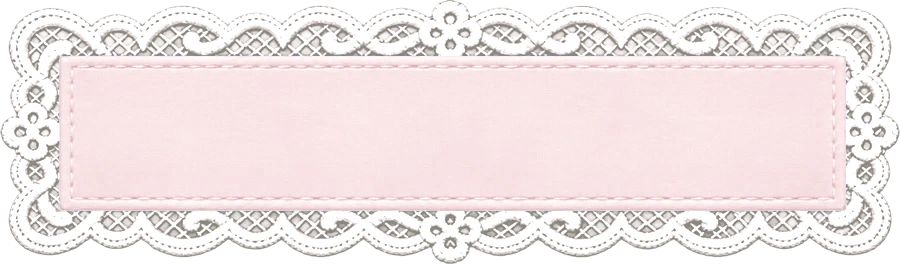
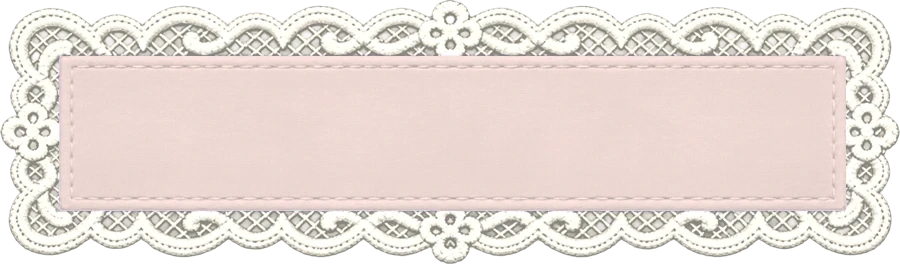
Web: the book's menu spread is back over the opening, no flash on close; smaller Start; dusty pink lace; leaf-green 용어집 (Kim)
- Start raises the book onto its first spread (도안 만들기, 이어서 뜨기 ...) floating over the opening;
  "← 메뉴" in the wizard turns back to it, closing sinks back to the opening.
- Closing no longer shows the book again for a moment: the sunk state lasts until the page it returns to
  is there, and the old desk stays hidden on wide screens.
- The opening's Start sentence is about 70% of its size.
- All pink lace labels use Kim's dusty pink (lace_btn_pink.webp).
- App: the 뜨개 용어집 tile in the medallion's leaf green (patch_leaf.webp).

diff --git a/components/Book/BookProvider.tsx b/components/Book/BookProvider.tsx
@@ -10,7 +10,7 @@
 // `instant` is true when the new state must appear without motion: first load, refresh, typed address,
 // or arriving from a page that has no book.
 import { usePathname, useRouter, useSearchParams } from "next/navigation";
-import { createContext, Suspense, useCallback, useContext, useEffect, useMemo, useState, type ReactNode } from "react";
+import { createContext, Suspense, useCallback, useContext, useEffect, useMemo, useRef, useState, type ReactNode } from "react";
 import { useApp } from "@/components/AppProvider";
 import { freshDraft } from "@/lib/items";
 import { store } from "@/lib/store";
@@ -87,6 +87,8 @@ export function BookProvider({ children }: { children: ReactNode }) {
   const [closing, setClosing] = useState(false);
   // the book opened over another page ("새 도안"), and the page to come back to from the wizard
   const [overlay, setOverlay] = useState(false);
+  const menuNext = useRef(false);
+  const [sinking, setSinking] = useState(false);
   const [origin, setOrigin] = useState<string | null>(null);
 
   // address -> state, during render (not in an effect) so the book sees the new view and `instant`
@@ -97,12 +99,16 @@ export function BookProvider({ children }: { children: ReactNode }) {
     const phone = isPhone();
     const bookPage = (p: string | null) => p === "/" || p === "/new" || (phone && !!bookPageOf(p));
     setSeenPath(path);
-    // wide screens (Kim): there is no menu spread any more - / is the opening, the book only rises to the wizard
+    // wide screens (Kim): / is the opening; the book with its menu spread floats over it (overlay), so the menu is
+    // never the old desk. Phones keep their own menu on /.
     if (path === "/") setHomeOpen(phone && (seenPath === "/new" || !!bookPageOf(seenPath) || seenPath === "/mine" || seenPath === "/pattern" || seenPath === "/track") && !closing);
     if (closing) setClosing(false);
     setInstant(!bookPage(seenPath) && !overlay);
-    if (overlay) setOverlay(false); // going anywhere (the wizard, 내 작품) ends the overlay
-    if (origin && path !== "/new") setOrigin(null); // back on a page (the origin or any other): forgotten
+    // wide screens: "← 메뉴" in a wizard raised over the opening turns back to the floating menu spread
+    const toMenu = menuNext.current && path === "/"; menuNext.current = false;
+    if (overlay !== toMenu) setOverlay(toMenu); // going anywhere (the wizard, 내 작품) ends the overlay
+    if (origin && path !== "/new" && !toMenu) setOrigin(null); // back on a page (the origin or any other): forgotten
+    if (sinking) setSinking(false); // the sunk book stays down until the screen it goes back to is there
   }
   // a step change on the same page (next / previous / Back / Forward) always turns the page, also after
   // the wizard was opened by a typed address or a refresh (which only skips the motion of that first view)
@@ -129,7 +135,7 @@ export function BookProvider({ children }: { children: ReactNode }) {
     router.replace(`/new?${sp}`, { scroll: false });
   }, [path, urlStep, router]);
 
-  const view: BookView = path === "/" ? (homeOpen ? "home" : "closed") : path === "/new" ? "wizard" : overlay ? "home" : "hidden";
+  const view: BookView = path === "/" ? (homeOpen || overlay ? "home" : "closed") : path === "/new" ? "wizard" : overlay ? "home" : "hidden";
   const step: WizStep = urlStep ?? 1;
 
   // Wide screens (Kim): the book is called from two places only - the opening's Start and the nav's 새 도안 -
@@ -140,15 +146,20 @@ export function BookProvider({ children }: { children: ReactNode }) {
     if (path === "/new") { const sp = new URLSearchParams(location.search); sp.delete("edit"); sp.set("step", "1"); router.push(`/new?${sp}`, { scroll: false }); return; }
     setOrigin(path + location.search); router.push("/new?step=1", { scroll: false });
   }, [path, router]);
-  const open = useCallback(() => { if (!isPhone()) { raise(); return; } setInstant(false); setHomeOpen(true); }, [raise]);
+  // wide screens, on the opening: the book rises from the bottom onto its first spread (the menu: 도안 만들기,
+  // 이어서 뜨기 ...), floating over the opening, which draws back under it (Kim)
+  const rise = useCallback(() => {
+    if (path !== "/") { raise(); return; }
+    setInstant(false); setOrigin("/"); setOverlay(true);
+  }, [path, raise]);
+  const open = useCallback(() => { if (!isPhone()) { rise(); return; } setInstant(false); setHomeOpen(true); }, [rise]);
   // close: the same everywhere in the book. In the wizard it goes home with the book closed
   const floating = overlay || (path === "/new" && !!origin);
-  const [sinking, setSinking] = useState(false);
   const finishClose = useCallback(() => {
     setInstant(false); setHomeOpen(false);
-    if (overlay) { setOverlay(false); return; } // opened over a page: just put the book away
+    if (overlay) { setOverlay(false); if (!isPhone()) setOrigin(null); return; } // opened over a page: just put the book away
     // the wizard entered from a page (새 도안 -> 도안 만들기, 도안 고치기) goes back to that page
-    if (path === "/new" && origin) { const o = origin; setOrigin(null); router.push(o, { scroll: false }); return; }
+    if (path === "/new" && origin) { const o = origin; if (isPhone()) setOrigin(null); router.push(o, { scroll: false }); return; } // wide screens: the path change forgets it, so the book stays floating (sunk) until that page is there
     if (path === "/new") { setClosing(true); router.push("/", { scroll: false }); }
     // phones: 도안집, 도안 and 따라 뜨기 are pages of the open book too; closing it goes to the desk, closed
     else if (isPhone() && bookPageOf(path)) { setClosing(true); router.push("/", { scroll: false }); }
@@ -158,16 +169,19 @@ export function BookProvider({ children }: { children: ReactNode }) {
     if (sinking) return;
     if (!floating) { finishClose(); return; }
     setSinking(true);
-    setTimeout(() => { finishClose(); setSinking(false); }, matchMedia("(prefers-reduced-motion: reduce)").matches ? 0 : 700);
-  }, [floating, sinking, finishClose]);
+    // going back to another address: .is-sinking stays until that screen is there (the path change ends it);
+    // ending it earlier showed the book once more, open, for a frame before it vanished
+    const stays = overlay || isPhone(); // phones: as before
+    setTimeout(() => { finishClose(); if (stays) setSinking(false); }, matchMedia("(prefers-reduced-motion: reduce)").matches ? 0 : 700);
+  }, [floating, sinking, finishClose, overlay]);
   const editHere = useCallback((id: string) => {
     setInstant(false); setOrigin(path + location.search); router.push(`/new?edit=${encodeURIComponent(id)}`, { scroll: false });
   }, [path, router]);
   const openHere = useCallback(() => {
-    if (!isPhone()) { raise(); return; }
+    if (!isPhone()) { rise(); return; }
     if (path === "/" || path === "/new") { setInstant(false); setHomeOpen(true); if (path === "/new") router.push("/", { scroll: false }); return; }
     setInstant(false); setOrigin(path + location.search); setOverlay(true);
-  }, [path, router, raise]);
+  }, [path, router, rise]);
   const doHome = useCallback(() => { setInstant(false); router.push("/", { scroll: false }); }, [router]);
 
   // Leaving a new pattern half made (a name typed, or past step 1) asks first: keep it for
@@ -195,8 +209,15 @@ export function BookProvider({ children }: { children: ReactNode }) {
     const sp = new URLSearchParams(location.search); sp.set("step", String(s));
     router.push(`/new?${sp}`, { scroll: false });
   }, [router]);
-  // wide screens: no menu to go back to - "← 메뉴" puts the book away (it sinks to the screen it rose over)
-  const toHome = useCallback(() => { if (!isPhone()) { close(); return; } if (asks()) setLeaving("home"); else doHome(); }, [asks, doHome, close]);
+  // wide screens: "← 메뉴" turns back to the menu spread when the wizard was raised from the opening; raised over
+  // another page (새 도안), there is no menu there - the book is put away (it sinks to that page)
+  const toHome = useCallback(() => {
+    if (!isPhone()) {
+      if (origin?.split("?")[0] !== "/") { close(); return; }
+      menuNext.current = true;
+    }
+    if (asks()) setLeaving("home"); else doHome();
+  }, [asks, doHome, close, origin]);
   const toDesk = useCallback(() => { setClosing(true); router.push("/", { scroll: false }); }, [router]);
   const leaveTo = useCallback((to: string) => { if (asks()) setLeaving({ path: to }); else { setInstant(false); router.push(to, { scroll: false }); } }, [asks, router]);
 
@@ -210,7 +231,8 @@ export function BookProvider({ children }: { children: ReactNode }) {
     return () => document.removeEventListener("keydown", onKey);
   }, [view, close, leaving]);
 
-  const fromOpening = path === "/new" && origin?.split("?")[0] === "/"; // the path only (a query such as ?debug stays)
+  // the book floats over the opening: its menu on /, or the wizard raised from there (origin: the path only)
+  const fromOpening = (path === "/" && overlay) || (path === "/new" && origin?.split("?")[0] === "/");
   const value = useMemo<BookCtx>(() => ({ view, step, instant, mode, setMode, desk, open, close, startWizard, goStep, toHome, openHere, overlay, floating, sinking, editHere, leaveTo, toDesk, sinkAway: doClose, fromOpening }),
     [view, step, instant, mode, desk, open, close, startWizard, goStep, toHome, openHere, overlay, floating, sinking, editHere, leaveTo, toDesk, doClose, fromOpening]);
   return (

diff --git a/components/opening/webOpeningScene.ts b/components/opening/webOpeningScene.ts
@@ -44,7 +44,7 @@ export function makeScene(cv: HTMLCanvasElement, img: WebOpeningImages) {
   function layout() {
     const portrait = VH / VW > 1.12; LW = portrait ? 1080 : 1920; LH = portrait ? 1920 : 1080; SC = Math.min(VW / LW, VH / LH); OX = (VW - LW * SC) / 2; OY = (VH - LH * SC) / 2; PX = SC * DPR;
     const mr = img.med.naturalWidth / img.med.naturalHeight, lr = img.logo.naturalHeight / img.logo.naturalWidth, tr = img.text.naturalHeight / img.text.naturalWidth;
-    L = (portrait ? { mh: 940, mx: 540, my: 610, lw: 1010, lcx: 548, lcy: 1318, tw: 940, tcx: 540, tcy: 1610, bh: 1100 } : { mh: 575, mx: 960, my: 332, lw: 640, lcx: 978, lcy: 744, tw: 600, tcx: 960, tcy: 932, bh: 760 }) as Lay;
+    L = (portrait ? { mh: 940, mx: 540, my: 610, lw: 1010, lcx: 548, lcy: 1318, tw: 680, tcx: 540, tcy: 1590, bh: 1100 } : { mh: 575, mx: 960, my: 332, lw: 640, lcx: 978, lcy: 744, tw: 430, tcx: 960, tcy: 920, bh: 760 }) as Lay;
     L.mw = L.mh * mr; L.lh = L.lw * lr; L.th = L.tw * tr; L.lx = L.lcx - L.lw / 2; L.ly = L.lcy - L.lh / 2; L.tx = L.tcx - L.tw / 2; L.ty = L.tcy - L.th / 2;
     tc.width = Math.ceil(L.tw * PX); tc.height = Math.ceil(L.th * PX);
     const k = LWp / 1200; lastP = -1; SP = (RAW as number[][][]).map(s => { const p = s.map(([x, y]) => [x * k, y * k]), sm = [p[0]]; for (let i = 1; i < p.length - 1; i++) sm.push(...quad([(p[i - 1][0] + p[i][0]) / 2, (p[i - 1][1] + p[i][1]) / 2], p[i], [(p[i][0] + p[i + 1][0]) / 2, (p[i][1] + p[i + 1][1]) / 2])); sm.push(p[p.length - 1]); return resample(sm, Math.max(1.5, 2 * k)); });

diff --git a/components/home/Hero.tsx b/components/home/Hero.tsx
@@ -16,7 +16,8 @@ import { OpeningIntroWeb } from "@/components/opening/OpeningIntroWeb";
 export function Hero() {
   const b = useBook();
   // /new on phones or without WebGL: the one-page wizard of app/new draws itself; no stage
-  const hidden = b.view === "hidden" || (b.view === "wizard" && !wizardInBook(b));
+  // wide screens: the old desk is not shown any more - with the book away (closed) the stage is hidden under the opening
+  const hidden = b.view === "hidden" || b.view === "closed" || (b.view === "wizard" && !wizardInBook(b));
   const open = b.view === "home" || b.view === "wizard";
   // coming back to the home screen from another page: the logo, the copy and the book float in (as the
   // other pages do, globals.css .is-arriving); not on the very first load, not for the book opened over a page

diff --git a/components/mobile/flow-mobile.css b/components/mobile/flow-mobile.css
@@ -225,7 +225,7 @@
 @media (max-width:767.98px){
   body .mfh-foot{grid-template-columns:1fr 1fr}
   body .mfh-foot.mfh-top{margin-top:0}
-  body .mf-patch.is-green{--patch:url(/glossary/patch_sage.webp)}
+  body .mf-patch.is-green{--patch:url(/glossary/patch_leaf.webp)} /* the medallion leaves green (Kim) */
 }
 /* the embroidered wordmark (2.82 : 1): its width only, or it would stretch */
 @media (max-width:767.98px){ body .mfh-foil{width:150px;height:auto} }
